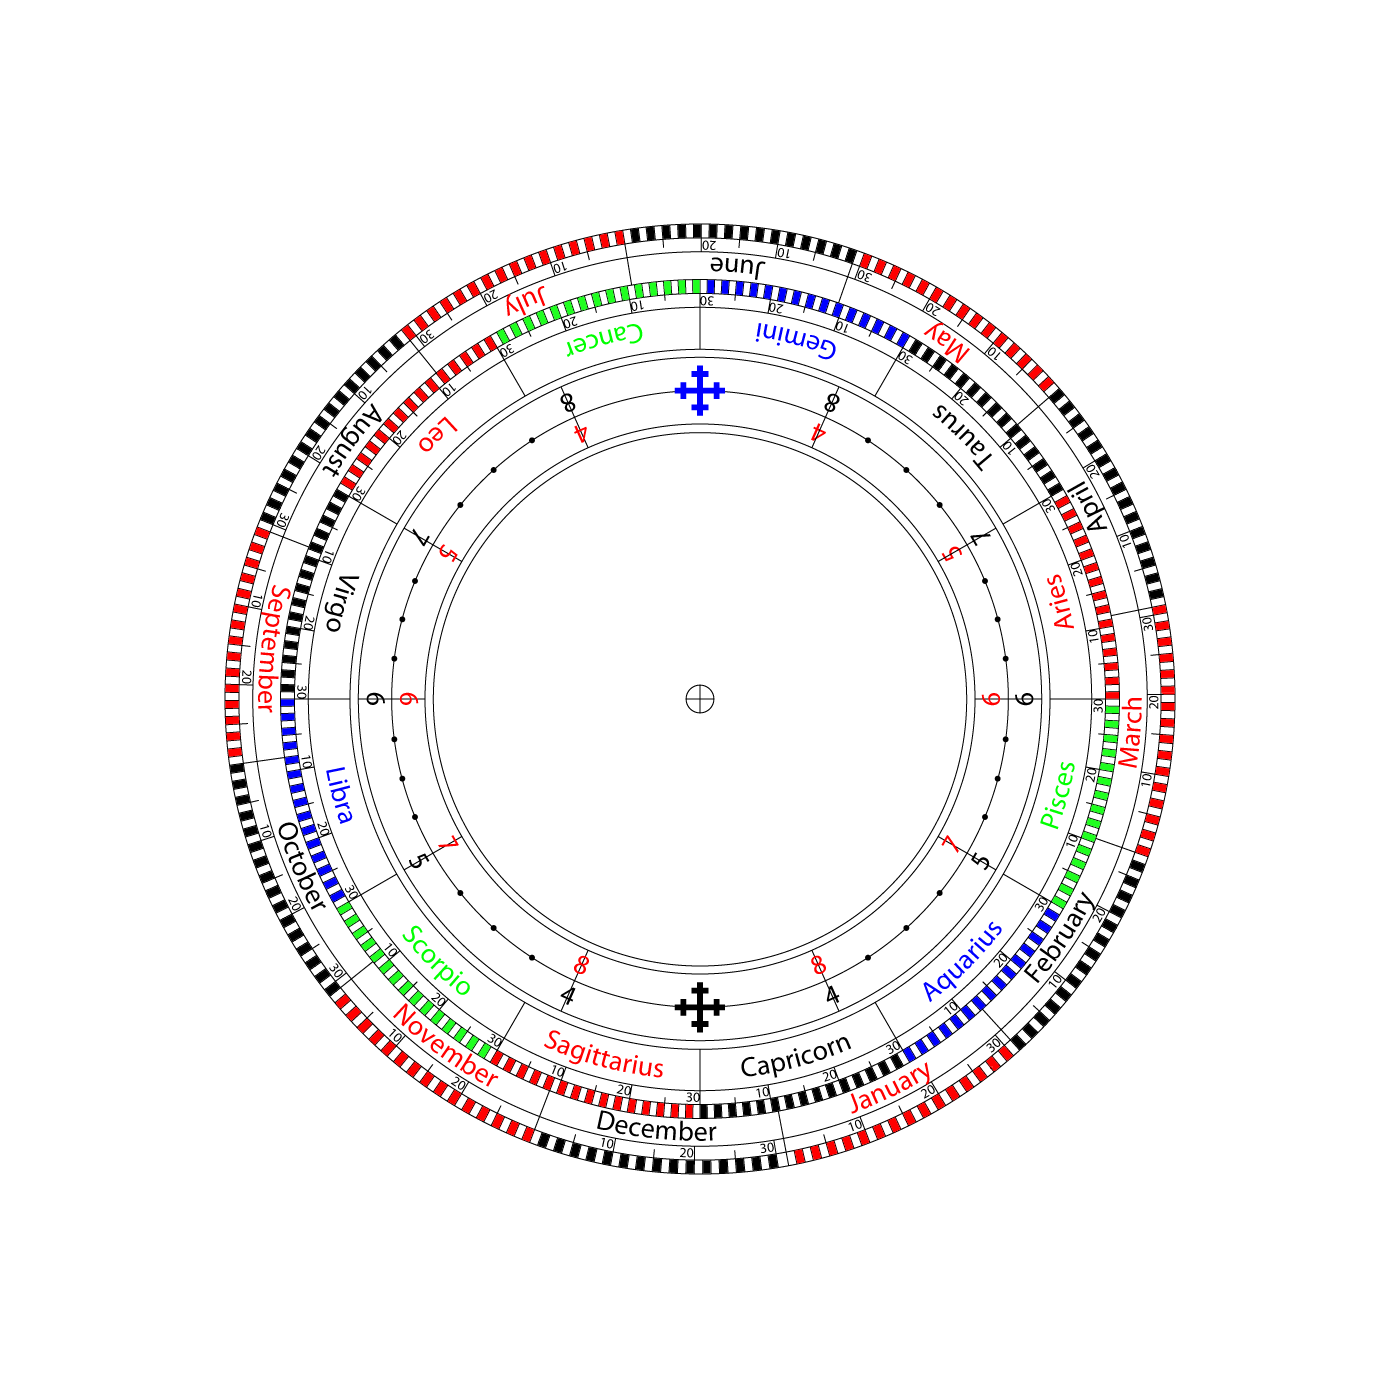
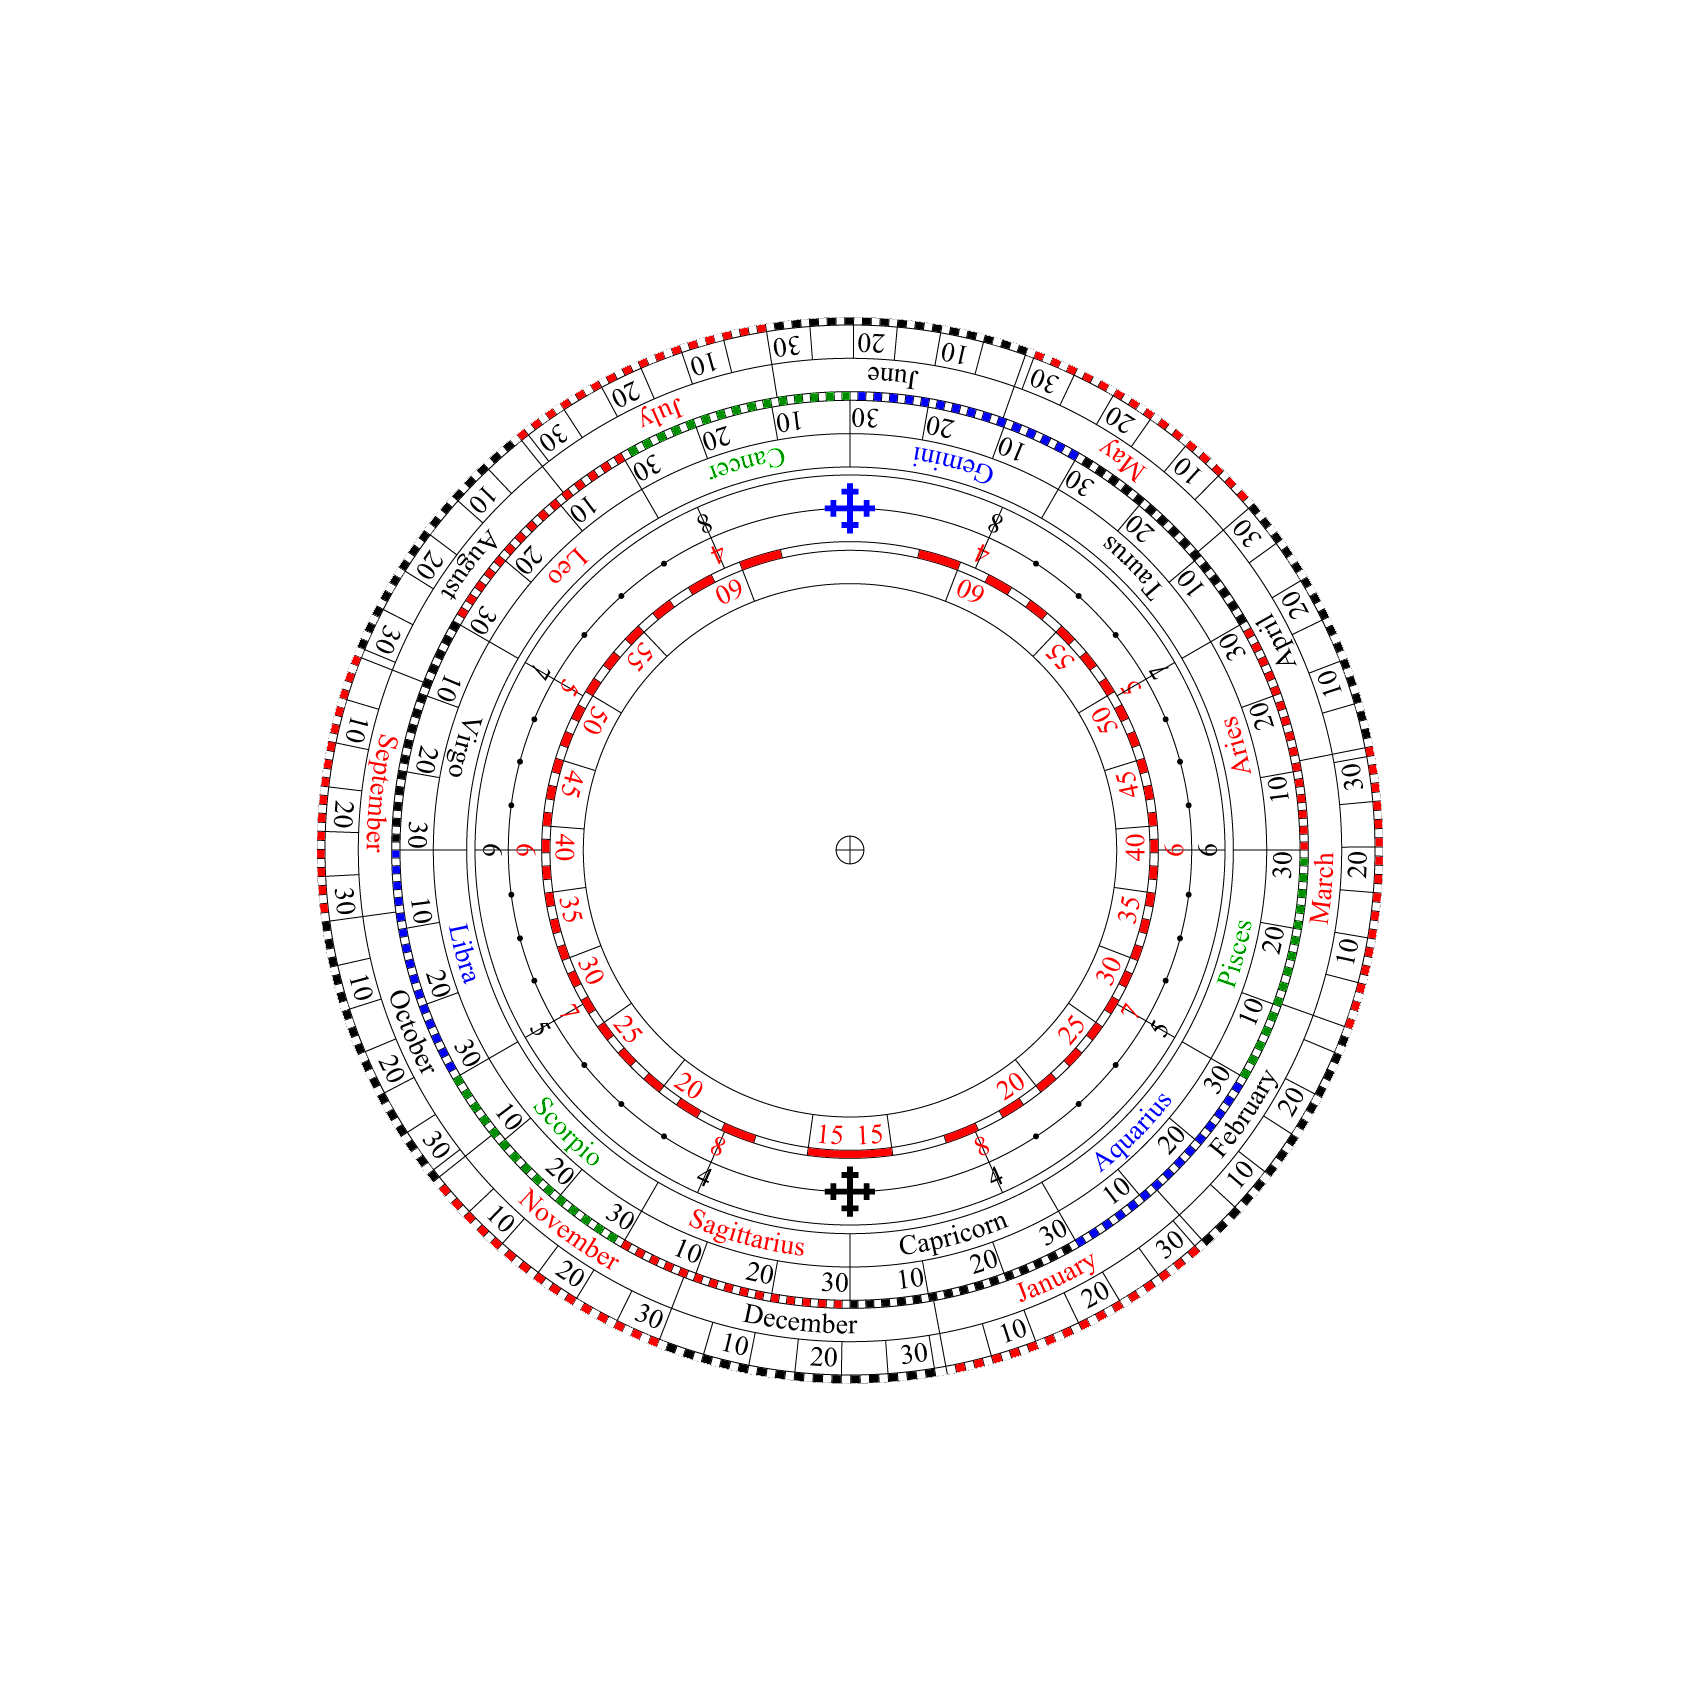
updated images

Changed region(s): [[0.1536, 0.1536, 0.86, 0.86], [0.4914, 0.4914, 0.5221, 0.5221]]

diff --git a/lunarvolvelle/src/sim.html b/lunarvolvelle/src/sim.html
@@ -15,6 +15,7 @@ GNU General Public License for more details.
 Copyright (c) 2017 Timothy J. Mitchell
 
 1.0 First pass
+2.0 Added improved version of images
 
 Based on:
 http://www.bl.uk/catalogues/illuminatedmanuscripts/ILLUMIN.ASP?Size=mid&IllID=12771
@@ -37,8 +38,8 @@ Book Title or subject: Medical miscellany, including an astronomical calendar
 			body,canvas{ background-color: #EEE8AA; }
 			.panel {
 				float: left;
-				width: 700px;
-				height: 700px;
+				width: 850px;
+				height: 850px;
 				position: relative;
 				font-size: .8em;
 
@@ -140,12 +141,11 @@ Book Title or subject: Medical miscellany, including an astronomical calendar
 					ctxF.rotate(moonAngle);
 					ctxF.beginPath();
 					ctxF.moveTo(0,-110);
-					ctxF.lineTo(0,-260);
-					ctxF.lineTo(-15,-250);
-					ctxF.lineTo(-70,-120);
+					ctxF.lineTo(0,-290);
+					ctxF.lineTo(-15,-280);
+					ctxF.lineTo(-70,-150);
 					ctxF.lineTo(-70,-90);
-					ctxF.closePath();
-					
+					ctxF.closePath();					
 					//ctxF.fillStyle="blue";
 					//ctxF.fill();
 					ctxF.restore();
@@ -157,9 +157,9 @@ Book Title or subject: Medical miscellany, including an astronomical calendar
 					ctxF.rotate(sunAngle);
 					ctxF.beginPath();
 					ctxF.moveTo(130,0);
-					ctxF.lineTo(260,0);
-					ctxF.lineTo(250,-15);
-					ctxF.lineTo(120,-70);
+					ctxF.lineTo(290,0);
+					ctxF.lineTo(280,-15);
+					ctxF.lineTo(150,-70);
 					ctxF.lineTo(110,-70);
 					ctxF.closePath();
 					//ctxF.fillStyle="red";
@@ -172,7 +172,7 @@ Book Title or subject: Medical miscellany, including an astronomical calendar
 					ctxF.translate(cxF,cyF);
 					ctxF.rotate(calendarAngle);
 					ctxF.beginPath();
-					ctxF.arc(0,0,250,0,2 * Math.PI, false);
+					ctxF.arc(0,0,267,0,2 * Math.PI, false);
 					//ctxF.fillStyle="blue";
 					//ctxF.fill();
 					ctxF.restore();
@@ -183,7 +183,7 @@ Book Title or subject: Medical miscellany, including an astronomical calendar
 					ctxF.translate(cxF,cyF);
 					ctxF.rotate(calendarAngle);
 					ctxF.beginPath();
-					ctxF.arc(0,0,130,0,2 * Math.PI, false);
+					ctxF.arc(0,0,135,0,2 * Math.PI, false);
 					//ctxF.fillStyle="blue";
 					//ctxF.fill();
 					ctxF.restore();
@@ -322,7 +322,7 @@ Book Title or subject: Medical miscellany, including an astronomical calendar
 	<body>
 		<div id="astrolabePanel" class="astrolabe panel">
 			<div class="front">
-				<canvas id="canvasfront" width=700 height=700></canvas>
+				<canvas id="canvasfront" width=850 height=850></canvas>
 			</div>
 		</div>
 		<div id="preload">
